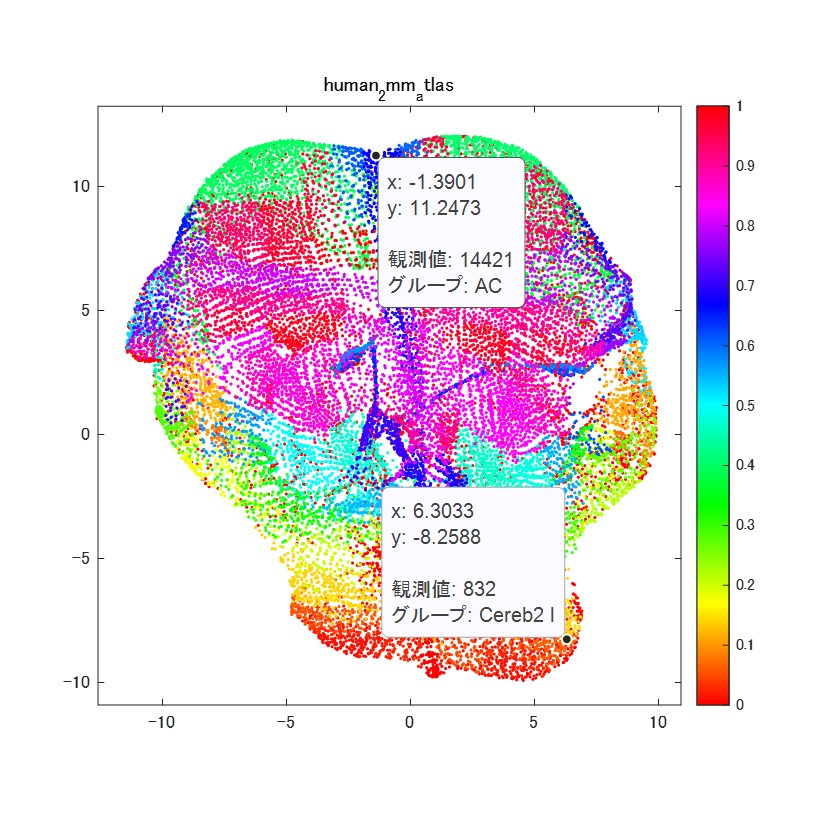
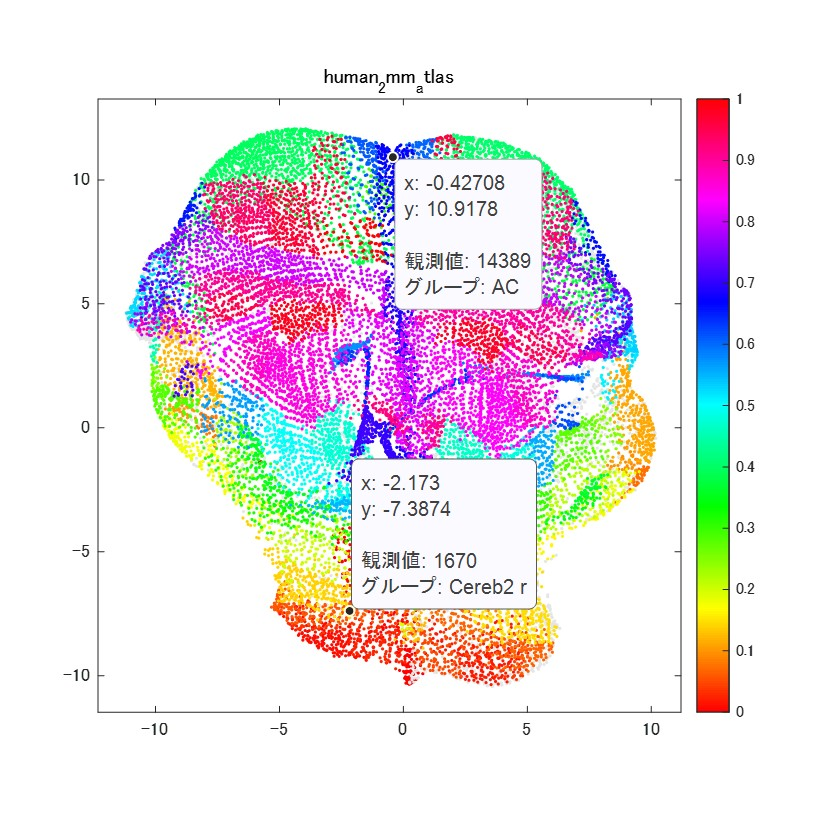
fixed demo2 image.

diff --git a/lib/plotNifti3Dflatmap.m b/lib/plotNifti3Dflatmap.m
@@ -71,6 +71,7 @@ function crange = plotNifti3Dflatmap(V, maskV, isFullVoxel, flatXY, gRate, crang
     end
 
     % ROI names
+    nanIdx = nan;
     if ~isempty(roiname)
         RG=cell(length(Vidx),1);
         for i=1:length(Vidx)
@@ -79,14 +80,22 @@ function crange = plotNifti3Dflatmap(V, maskV, isFullVoxel, flatXY, gRate, crang
                 RG{i}=roiname{id,1};
             else
                 RG{i}='nan';
+                if isnan(nanIdx), nanIdx = i; end
             end
         end
         Vidx = RG;
+        % get nan index for group color
+        if nanIdx > 1
+            u = unique(RG(1:nanIdx-1));
+            nanIdx = length(u) + 1;
+        end
     end
 
     % show plot
-    if ~isempty(zeroColor), clr(1,:) = zeroColor; % might be 0 group
-    else, clr(1,:) = clr(2,:); end
+    if ~isempty(zeroColor)
+        if nanIdx > 0, clr(nanIdx,:) = zeroColor;
+        else, clr(1,:) = zeroColor; end % might be 0 group
+    end
     colormap(cmap);
     gscatter(flatXY(:,1),flatXY(:,2),Vidx,clr);
     set(gca,'Color',bkColor);
